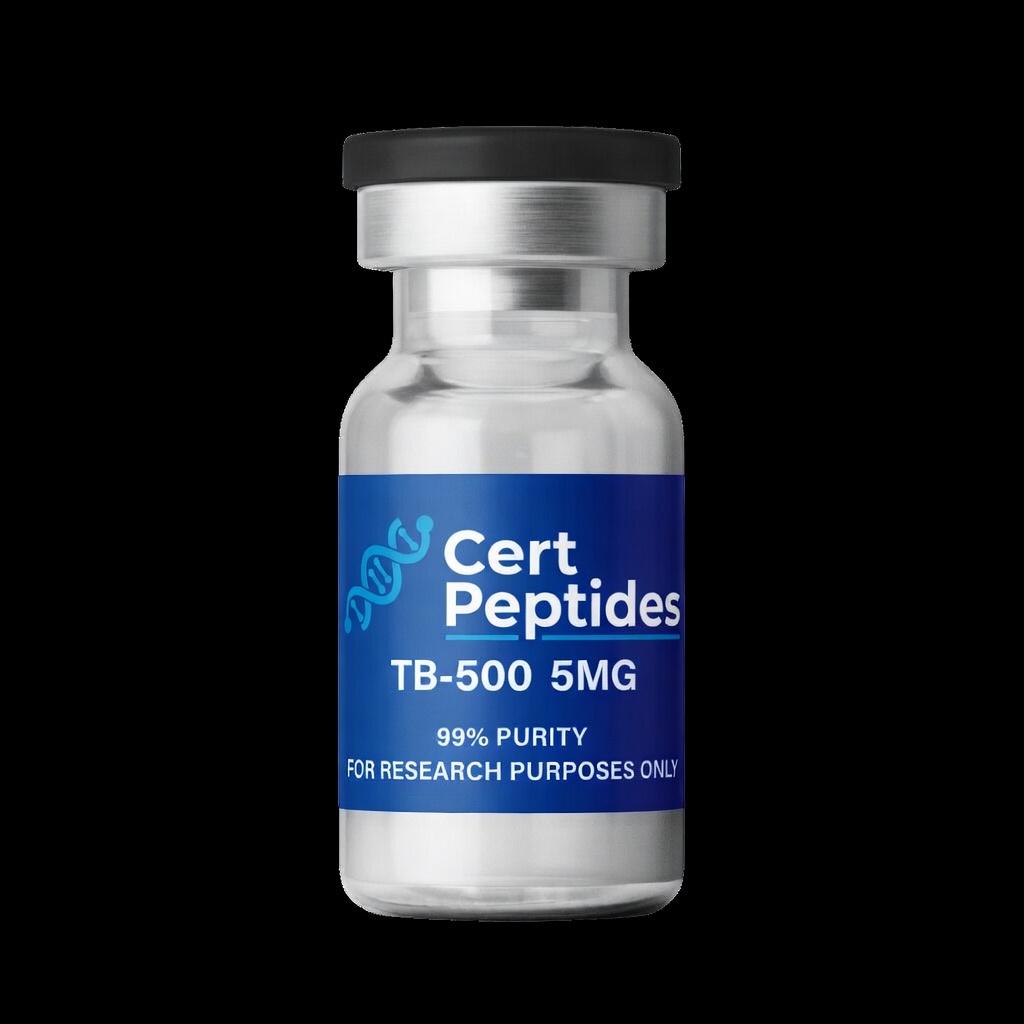
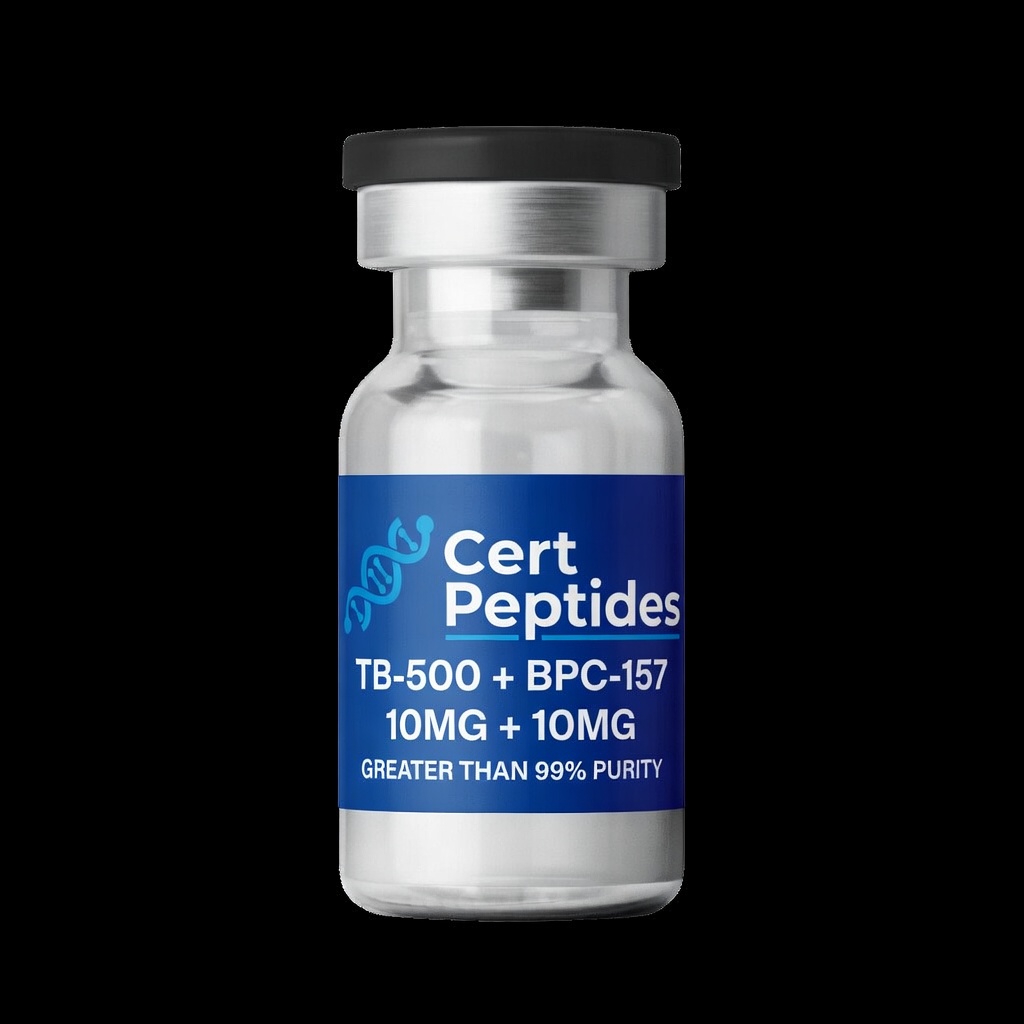
Add TB-500 product image, update corrected blend image, replace remaining TB-500 placeholders

Changed region(s): [[0.3438, 0.625, 0.6562, 0.7812]]

diff --git a/collections.html b/collections.html
@@ -81,7 +81,9 @@
     <div class="products-grid">
       <div class="product-card" data-category="glp1" data-price="89.99">
         <span class="product-badge">Popular</span>
-        <div class="product-image"><img src="images/Cert Peptide Images 300x300/cert_tirzepatide_10mg_300x300.jpeg" alt="Tirzepatide" style="width:100%;height:100%;object-fit:cover;"><div class="quick-view"><span>Quick View</span></div>
+        <div class="product-image"><img src="images/Cert Peptide Images 300x300/cert_tirzepatide_10mg_300x300.jpeg"
+            alt="Tirzepatide" style="width:100%;height:100%;object-fit:cover;">
+          <div class="quick-view"><span>Quick View</span></div>
         </div>
         <div class="product-info">
           <p class="product-cat">GLP-1 Agonists</p>
@@ -106,7 +108,9 @@
       </div>
       <div class="product-card" data-category="glp1" data-price="99.99">
         <span class="product-badge">New</span>
-        <div class="product-image"><img src="images/Cert Peptide Images 300x300/cert_retatrutide_5mg_300x300.jpeg" alt="Retatrutide" style="width:100%;height:100%;object-fit:cover;"><div class="quick-view"><span>Quick View</span></div>
+        <div class="product-image"><img src="images/Cert Peptide Images 300x300/cert_retatrutide_5mg_300x300.jpeg"
+            alt="Retatrutide" style="width:100%;height:100%;object-fit:cover;">
+          <div class="quick-view"><span>Quick View</span></div>
         </div>
         <div class="product-info">
           <p class="product-cat">Triple Agonist</p>
@@ -130,7 +134,9 @@
       <div class="products-grid">
         <div class="product-card" data-category="healing" data-price="42.99">
           <span class="product-badge">Best Seller</span>
-          <div class="product-image"><img src="images/Cert Peptide Images 300x300/cert_bpc-157_10mg_300x300.jpeg" alt="BPC-157" style="width:100%;height:100%;object-fit:cover;"><div class="quick-view"><span>Quick View</span></div>
+          <div class="product-image"><img src="images/Cert Peptide Images 300x300/cert_bpc-157_10mg_300x300.jpeg"
+              alt="BPC-157" style="width:100%;height:100%;object-fit:cover;">
+            <div class="quick-view"><span>Quick View</span></div>
           </div>
           <div class="product-info">
             <p class="product-cat">Healing &amp; Recovery</p>
@@ -142,7 +148,9 @@
           </div>
         </div>
         <div class="product-card" data-category="healing" data-price="44.99">
-          <div class="product-image">🧪<div class="quick-view"><span>Quick View</span></div>
+          <div class="product-image"><img src="images/Cert Peptide Images 300x300/cert_tb-500_5mg_300x300.jpeg"
+              alt="TB-500" class="product-main-img">
+            <div class="quick-view"><span>Quick View</span></div>
           </div>
           <div class="product-info">
             <p class="product-cat">Healing &amp; Recovery</p>
@@ -156,7 +164,10 @@
         </div>
         <div class="product-card" data-category="healing" data-price="79.99">
           <span class="product-badge">Bundle</span>
-          <div class="product-image"><img src="images/Cert Peptide Images 300x300/cert_tb-500_bpc-157_blend_10mg_10mg_300x300.jpeg" alt="BPC-157 + TB-500" style="width:100%;height:100%;object-fit:cover;"><div class="quick-view"><span>Quick View</span></div>
+          <div class="product-image"><img
+              src="images/Cert Peptide Images 300x300/cert_tb-500_bpc-157_blend_10mg_10mg_300x300.jpeg"
+              alt="BPC-157 + TB-500" style="width:100%;height:100%;object-fit:cover;">
+            <div class="quick-view"><span>Quick View</span></div>
           </div>
           <div class="product-info">
             <p class="product-cat">Peptide Blends</p>
@@ -179,7 +190,9 @@
       research.</p>
     <div class="products-grid">
       <div class="product-card" data-category="growth" data-price="34.99">
-        <div class="product-image"><img src="images/Cert Peptide Images 300x300/cert_sermorelin_10mg_300x300.jpeg" alt="Sermorelin" style="width:100%;height:100%;object-fit:cover;"><div class="quick-view"><span>Quick View</span></div>
+        <div class="product-image"><img src="images/Cert Peptide Images 300x300/cert_sermorelin_10mg_300x300.jpeg"
+            alt="Sermorelin" style="width:100%;height:100%;object-fit:cover;">
+          <div class="quick-view"><span>Quick View</span></div>
         </div>
         <div class="product-info">
           <p class="product-cat">Growth Hormone</p>
@@ -191,7 +204,9 @@
         </div>
       </div>
       <div class="product-card" data-category="growth" data-price="39.99">
-        <div class="product-image"><img src="images/Cert Peptide Images 300x300/cert_cjc_no-dac_10mg_300x300.jpeg" alt="CJC-1295" style="width:100%;height:100%;object-fit:cover;"><div class="quick-view"><span>Quick View</span></div>
+        <div class="product-image"><img src="images/Cert Peptide Images 300x300/cert_cjc_no-dac_10mg_300x300.jpeg"
+            alt="CJC-1295" style="width:100%;height:100%;object-fit:cover;">
+          <div class="quick-view"><span>Quick View</span></div>
         </div>
         <div class="product-info">
           <p class="product-cat">Growth Hormone</p>
@@ -203,7 +218,9 @@
         </div>
       </div>
       <div class="product-card" data-category="growth" data-price="36.99">
-        <div class="product-image"><img src="images/Cert Peptide Images 300x300/cert_ipamorelin_5mg_300x300.jpeg" alt="Ipamorelin" style="width:100%;height:100%;object-fit:cover;"><div class="quick-view"><span>Quick View</span></div>
+        <div class="product-image"><img src="images/Cert Peptide Images 300x300/cert_ipamorelin_5mg_300x300.jpeg"
+            alt="Ipamorelin" style="width:100%;height:100%;object-fit:cover;">
+          <div class="quick-view"><span>Quick View</span></div>
         </div>
         <div class="product-info">
           <p class="product-cat">Growth Hormone</p>
@@ -225,7 +242,9 @@
         applications.</p>
       <div class="products-grid">
         <div class="product-card" data-category="anti-aging" data-price="49.99">
-          <div class="product-image"><img src="images/Cert Peptide Images 300x300/cert_ghk-cu_85mg_300x300.jpeg" alt="GHK-Cu" style="width:100%;height:100%;object-fit:cover;"><div class="quick-view"><span>Quick View</span></div>
+          <div class="product-image"><img src="images/Cert Peptide Images 300x300/cert_ghk-cu_85mg_300x300.jpeg"
+              alt="GHK-Cu" style="width:100%;height:100%;object-fit:cover;">
+            <div class="quick-view"><span>Quick View</span></div>
           </div>
           <div class="product-info">
             <p class="product-cat">Anti-Aging</p>
@@ -238,7 +257,9 @@
           </div>
         </div>
         <div class="product-card" data-category="anti-aging" data-price="54.99">
-          <div class="product-image"><img src="images/Cert Peptide Images 300x300/cert_epitalon_50mg_300x300.jpeg" alt="Epitalon" style="width:100%;height:100%;object-fit:cover;"><div class="quick-view"><span>Quick View</span></div>
+          <div class="product-image"><img src="images/Cert Peptide Images 300x300/cert_epitalon_50mg_300x300.jpeg"
+              alt="Epitalon" style="width:100%;height:100%;object-fit:cover;">
+            <div class="quick-view"><span>Quick View</span></div>
           </div>
           <div class="product-info">
             <p class="product-cat">Anti-Aging</p>
@@ -261,7 +282,9 @@
       research.</p>
     <div class="products-grid">
       <div class="product-card" data-category="melanocortin" data-price="39.99">
-        <div class="product-image"><img src="images/Cert Peptide Images 300x300/cert_pt-141_8mg_300x300.jpeg" alt="PT-141" style="width:100%;height:100%;object-fit:cover;"><div class="quick-view"><span>Quick View</span></div>
+        <div class="product-image"><img src="images/Cert Peptide Images 300x300/cert_pt-141_8mg_300x300.jpeg"
+            alt="PT-141" style="width:100%;height:100%;object-fit:cover;">
+          <div class="quick-view"><span>Quick View</span></div>
         </div>
         <div class="product-info">
           <p class="product-cat">Melanocortin</p>

diff --git a/product-tb500.html b/product-tb500.html
@@ -130,16 +130,8 @@
   <section class="product-detail">
     <div class="product-detail-inner">
       <div class="product-gallery">
-        <div class="gallery-placeholder">
-          <div class="placeholder-img">
-            <svg width="80" height="80" fill="none" stroke="#888" stroke-width="1.5" viewBox="0 0 24 24">
-              <rect x="3" y="3" width="18" height="18" rx="2" />
-              <circle cx="8.5" cy="8.5" r="1.5" />
-              <path d="M21 15l-5-5L5 21" />
-            </svg>
-            <p>Product Image</p>
-          </div>
-        </div>
+        <img src="images/Cert Peptide Images 300x300/cert_tb-500_5mg_300x300.jpeg" alt="TB-500 (Thymosin Beta-4) – 5mg"
+          class="product-main-img" width="300" height="300">
         <div class="gallery-thumbs">
           <div class="thumb active"></div>
           <div class="thumb"></div>

diff --git a/shop.html b/shop.html
@@ -232,7 +232,9 @@
 
       <!-- TB-500 -->
       <div class="product-card" data-category="healing" data-price="44.99">
-        <div class="product-image">🧪<div class="quick-view"><span>Quick View</span></div>
+        <div class="product-image"><img src="images/Cert Peptide Images 300x300/cert_tb-500_5mg_300x300.jpeg"
+            alt="TB-500" class="product-main-img">
+          <div class="quick-view"><span>Quick View</span></div>
         </div>
         <div class="product-info">
           <p class="product-cat">Healing &amp; Recovery</p>
